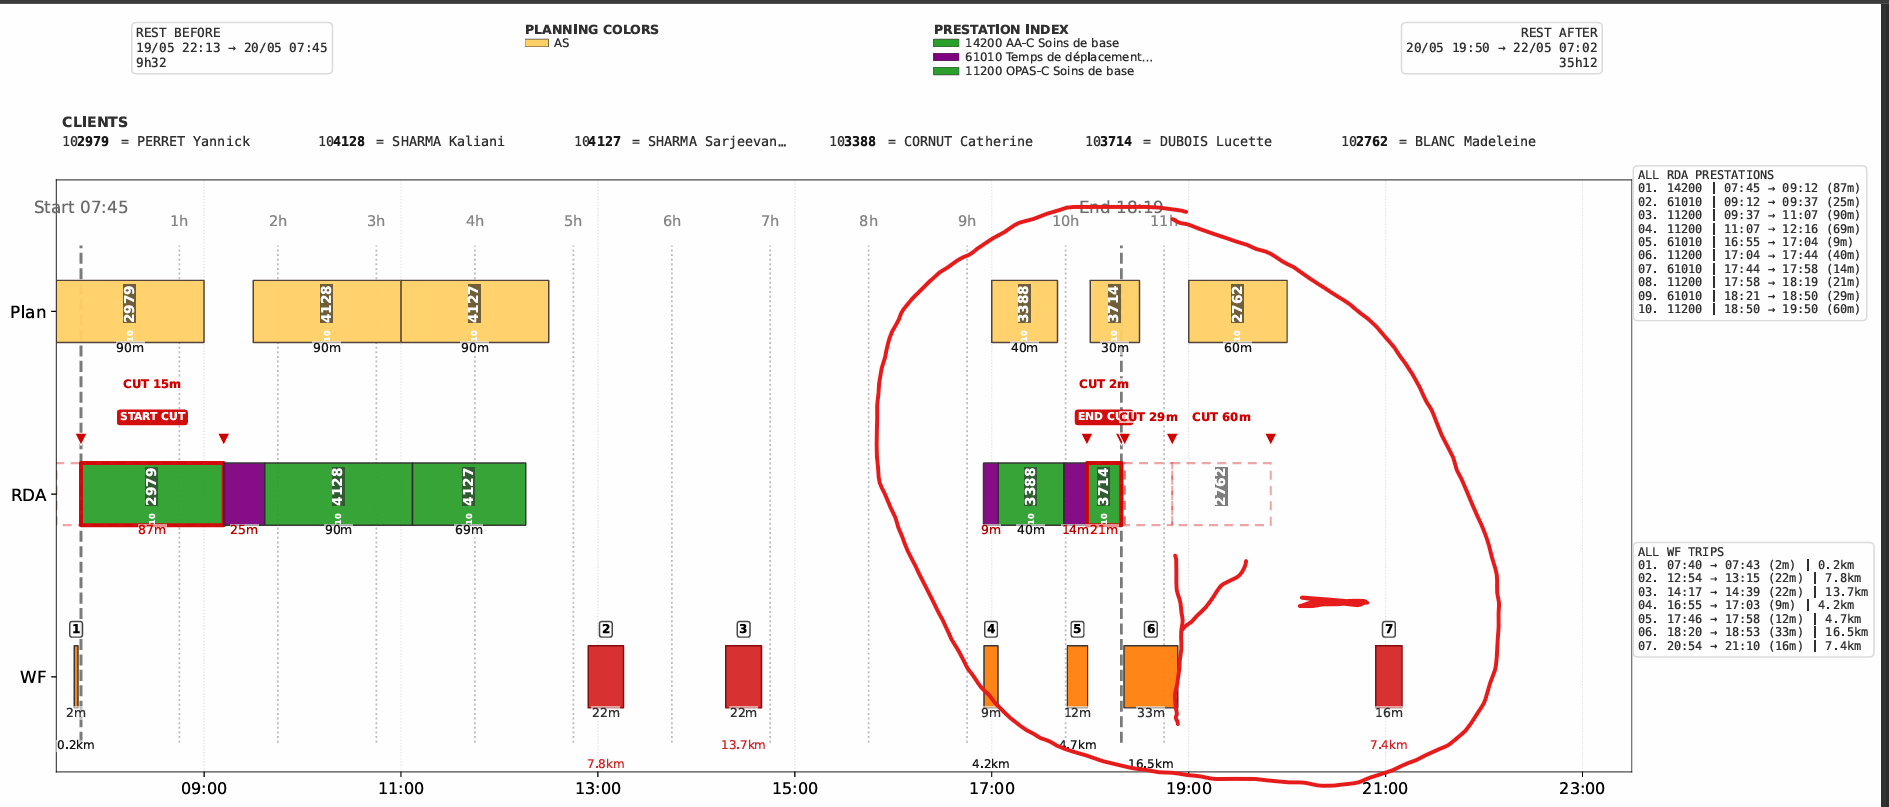
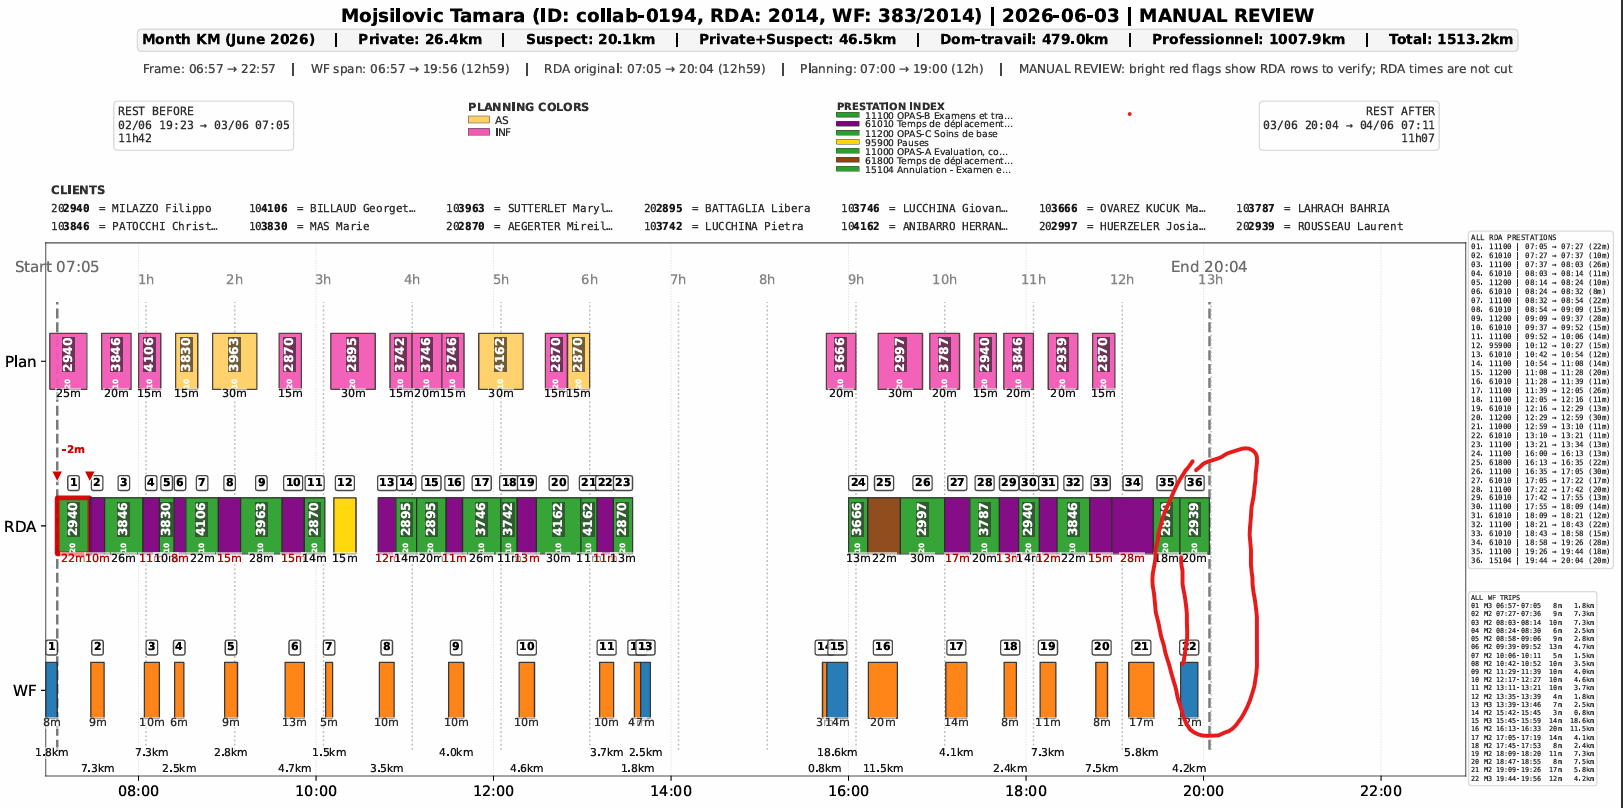
Update audit charts and LTR packaging

diff --git a/audit_webfleet_rda.py b/audit_webfleet_rda.py
@@ -484,12 +484,15 @@ def audit_run_rda_cutting(result: dict, chain_gap_min: int = 15, tail_window_min
         cand = trips[(trips["end"] > first_start) & (trips["start"] < first_end)].copy()
         if cand.empty:
             return cand
+        crosses_first_start = (cand["start"] <= first_start) & (cand["end"] > first_start)
+        if not crosses_first_start.any():
+            return cand.iloc[0:0].copy()
         cand = cand.sort_values(["start", "end"]).reset_index(drop=True)
         chain_idxs = []
         current_end = None
         for idx, rr in cand.iterrows():
             if not chain_idxs:
-                if rr["start"] <= first_start or rr["start"] <= first_start + pd.Timedelta(minutes=chain_gap_min):
+                if rr["start"] <= first_start and rr["end"] > first_start:
                     chain_idxs.append(idx)
                     current_end = rr["end"]
                     if current_end > first_start:
@@ -508,12 +511,15 @@ def audit_run_rda_cutting(result: dict, chain_gap_min: int = 15, tail_window_min
         cand = trips[(trips["end"] > last_start) & (trips["start"] <= anchor_limit)].copy()
         if cand.empty:
             return cand
-        tail_anchor = (cand["end"] >= last_end) | ((cand["start"] >= last_end) & (cand["start"] <= anchor_limit))
+        crosses_last_end = (cand["start"] < last_end) & (cand["end"] >= last_end)
+        if not crosses_last_end.any():
+            return cand.iloc[0:0].copy()
+        tail_anchor = crosses_last_end
         if not tail_anchor.any():
             return cand.iloc[0:0].copy()
         cand = cand.loc[:tail_anchor[tail_anchor].index.max()].copy()
         cand = cand.sort_values(["start", "end"]).reset_index(drop=True)
-        tail_anchor = (cand["end"] >= last_end) | ((cand["start"] >= last_end) & (cand["start"] <= anchor_limit))
+        tail_anchor = (cand["start"] < last_end) & (cand["end"] >= last_end)
         latest_idx = cand.loc[tail_anchor, "start"].idxmax()
         chain = [latest_idx]
         current_start = cand.loc[latest_idx, "start"]
@@ -1668,6 +1674,8 @@ def audit_process(rda_file, wf_file, mapping_file, planning_file, progress_cb=No
     def _interval_overlap(a_s, a_e, b_s, b_e):
         if pd.isna(a_s) or pd.isna(a_e) or pd.isna(b_s) or pd.isna(b_e):
             return False
+        if a_s < b_s:
+            return False
         ov_s = max(a_s, b_s)
         ov_e = min(a_e, b_e)
         ov_min = (ov_e - ov_s).total_seconds() / 60.0
@@ -2164,7 +2172,8 @@ def audit_build_chart_data(result: dict):
 
     rda_local = rda.dropna(subset=["collab_id", "start", "end"]).copy()
     rda_local["collab_id"] = rda_local["collab_id"].astype(str)
-    for rr in rda_local.itertuples(index=False):
+    rda_stack = {}
+    for rr in rda_local.sort_values(["collab_id", "start", "end"]).itertuples(index=False):
         s = _to_ln(rr.start)
         e = _to_ln(rr.end)
         if pd.isna(s) or pd.isna(e) or e <= s:
@@ -2174,6 +2183,9 @@ def audit_build_chart_data(result: dict):
         date_str = _cmp_date_str(jour_value, fallback_ts=s)
         if not date_str:
             continue
+        day_key = (cid, date_str)
+        rda_idx = rda_stack.get(day_key, 0) + 1
+        rda_stack[day_key] = rda_idx
         code = getattr(rr, "prestation_code", np.nan)
         prestation_text = getattr(rr, "prestation_text", "")
         code_key = str(code).strip() if pd.notna(code) else ""
@@ -2204,6 +2216,7 @@ def audit_build_chart_data(result: dict):
             "label_text": base_label, "label_y": 0.80,
             "label_color": "#d00000" if was_cut else ("#b30000" if is_61010 else "#111111"),
             "km_label": "", "km_label_y": np.nan, "km_label_color": "#111111", "wf_index": np.nan,
+            "rda_index": rda_idx,
             "client_nr": client_nr, "client_label": client_name or (f"Client {client_nr}" if client_nr else ""),
             "event_color": "", "event_color_key": "",
             "prestation_code": code_key, "prestation_text": _prestation_desc(code_key, prestation_text),
@@ -2241,6 +2254,7 @@ def audit_build_chart_data(result: dict):
             "line_width": 1.0,
             "label_text": f"{int(round(audit_duration_mins(s, e)))}m", "label_y": 1.80, "label_color": "#111111",
             "km_label": "", "km_label_y": np.nan, "km_label_color": "#111111", "wf_index": np.nan,
+            "rda_index": np.nan,
             "client_nr": client_nr, "client_label": client_label,
             "event_color": event_color, "event_color_key": event_color_key,
             "prestation_code": "", "prestation_text": "",
@@ -2369,7 +2383,8 @@ def audit_build_day_fig(data_ctx: dict, result: dict, cid: str, date_str: str):
             return "ALL RDA PRESTATIONS\n-"
         lines = []
         for idx, row in sub.iterrows():
-            idx_txt = f"{idx + 1:02d}"
+            idx_val = row.get("rda_index", np.nan)
+            idx_txt = f"{int(idx_val):02d}" if pd.notna(idx_val) else f"{idx + 1:02d}"
             s = audit_fmt_hhmm(row["left"])
             e = audit_fmt_hhmm(row["right"])
             mins = audit_duration_mins(row["left"], row["right"])
@@ -2726,6 +2741,12 @@ def audit_build_day_fig(data_ctx: dict, result: dict, cid: str, date_str: str):
                 wf_idx = rr.get("wf_index", np.nan)
                 if pd.notna(mid) and pd.notna(wf_idx):
                     ax.text(mdates.date2num(mid), float(rr["y"]) + 0.26, f"{int(wf_idx)}", ha="center", va="center",
+                            fontsize=8.3, color="#000000", fontweight="bold", zorder=7, clip_on=False,
+                            bbox=dict(facecolor="white", edgecolor="#222222", alpha=0.88, boxstyle="round,pad=0.18"))
+            if str(rr["kind"]) == "RDA_ORIG":
+                rda_idx = rr.get("rda_index", np.nan)
+                if pd.notna(mid) and pd.notna(rda_idx):
+                    ax.text(mdates.date2num(mid), float(rr["y"]) + 0.26, f"{int(rda_idx)}", ha="center", va="center",
                             fontsize=8.3, color="#000000", fontweight="bold", zorder=7, clip_on=False,
                             bbox=dict(facecolor="white", edgecolor="#222222", alpha=0.88, boxstyle="round,pad=0.18"))
             km_lab = str(rr.get("km_label", "") or "").strip()

diff --git a/ltr_checks.py b/ltr_checks.py
@@ -10,6 +10,10 @@ def ltr_unique_output_root(output_name: str) -> Path:
     return root
 
 
+def ltr_workbook_path(output_root: Path) -> Path:
+    return output_root / "multiple" / f"{output_root.name}.xlsx"
+
+
 def ltr_save_upload(uploaded_file, target_dir: Path) -> Path:
     target_dir.mkdir(parents=True, exist_ok=True)
     path = target_dir / uploaded_file.name
@@ -76,6 +80,13 @@ def ltr_load_notebook_functions(notebook_mtime: float) -> dict:
         source = "".join(notebook["cells"][cell_index]["source"])
         exec(compile(source, f"{notebook_path.name}:cell{cell_index + 1}", "exec"), env)
     return env
+
+
+def ltr_notebook_mtime() -> float:
+    notebook_path = LTR_NOTEBOOK_PATH
+    if not notebook_path.exists():
+        raise FileNotFoundError(f"LTR notebook not found: {notebook_path}")
+    return notebook_path.stat().st_mtime
 
 
 def ltr_compute_summary(env: dict, df: pd.DataFrame, services_df: pd.DataFrame, calendar_slices_df: pd.DataFrame, all_infractions: pd.DataFrame, data_quality: pd.DataFrame) -> pd.DataFrame:
@@ -145,10 +156,9 @@ def ltr_process(matched_upload, rda_upload, output_name: str) -> dict:
     input_dir = output_root / "inputs"
     matched_path = ltr_save_upload(matched_upload, input_dir)
     rda_path = ltr_save_upload(rda_upload, input_dir)
-    workbook_path = output_root / "multiple" / "LTR_CHECKS_MULTIPLE_ALL_MONTHS_HYBRID.xlsx"
+    workbook_path = ltr_workbook_path(output_root)
 
-    notebook_path = LTR_NOTEBOOK_PATH
-    env = ltr_load_notebook_functions(notebook_path.stat().st_mtime)
+    env = ltr_load_notebook_functions(ltr_notebook_mtime())
 
     df_raw = env["load_and_normalize"](str(rda_path))
     matched = env["load_matched_collabs"](str(matched_path))
